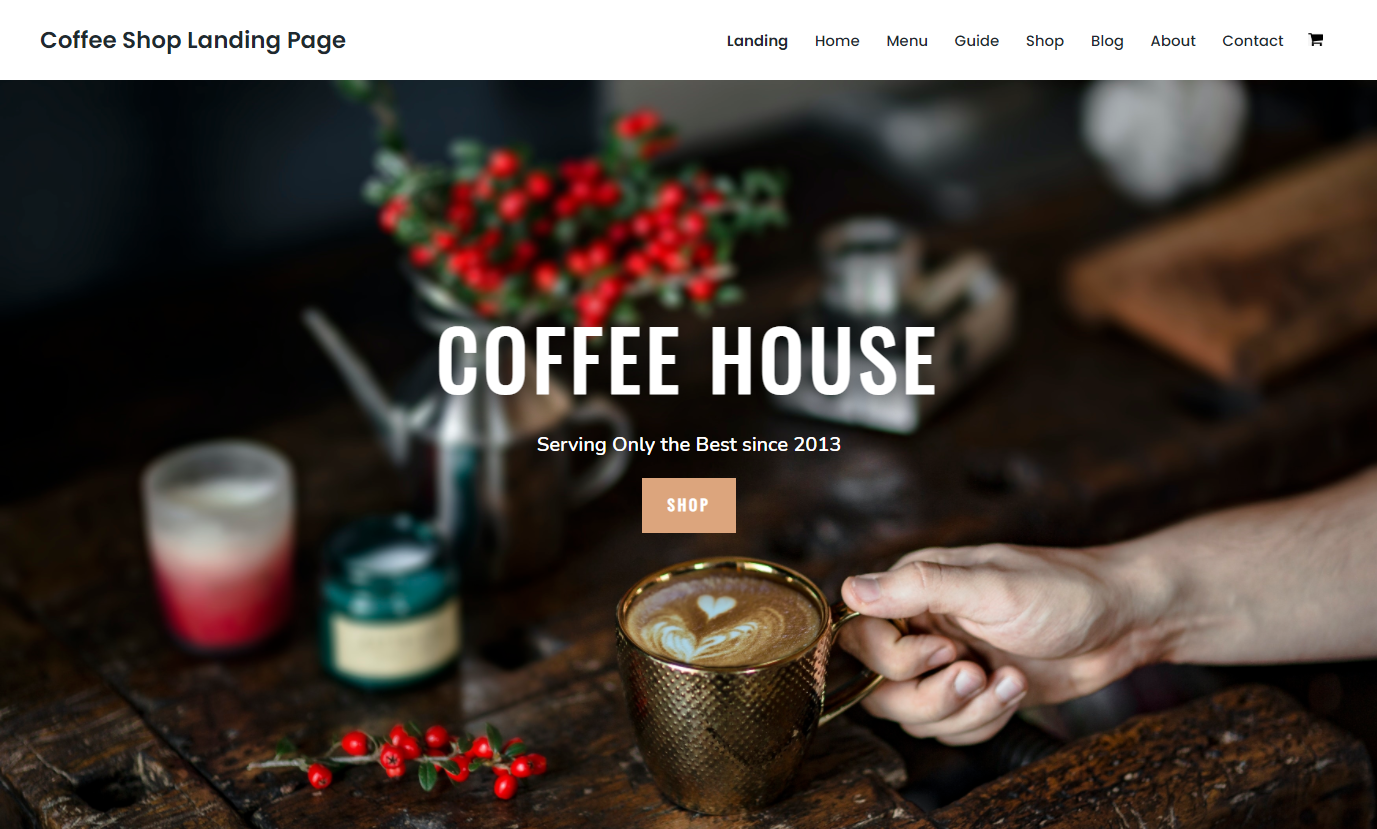
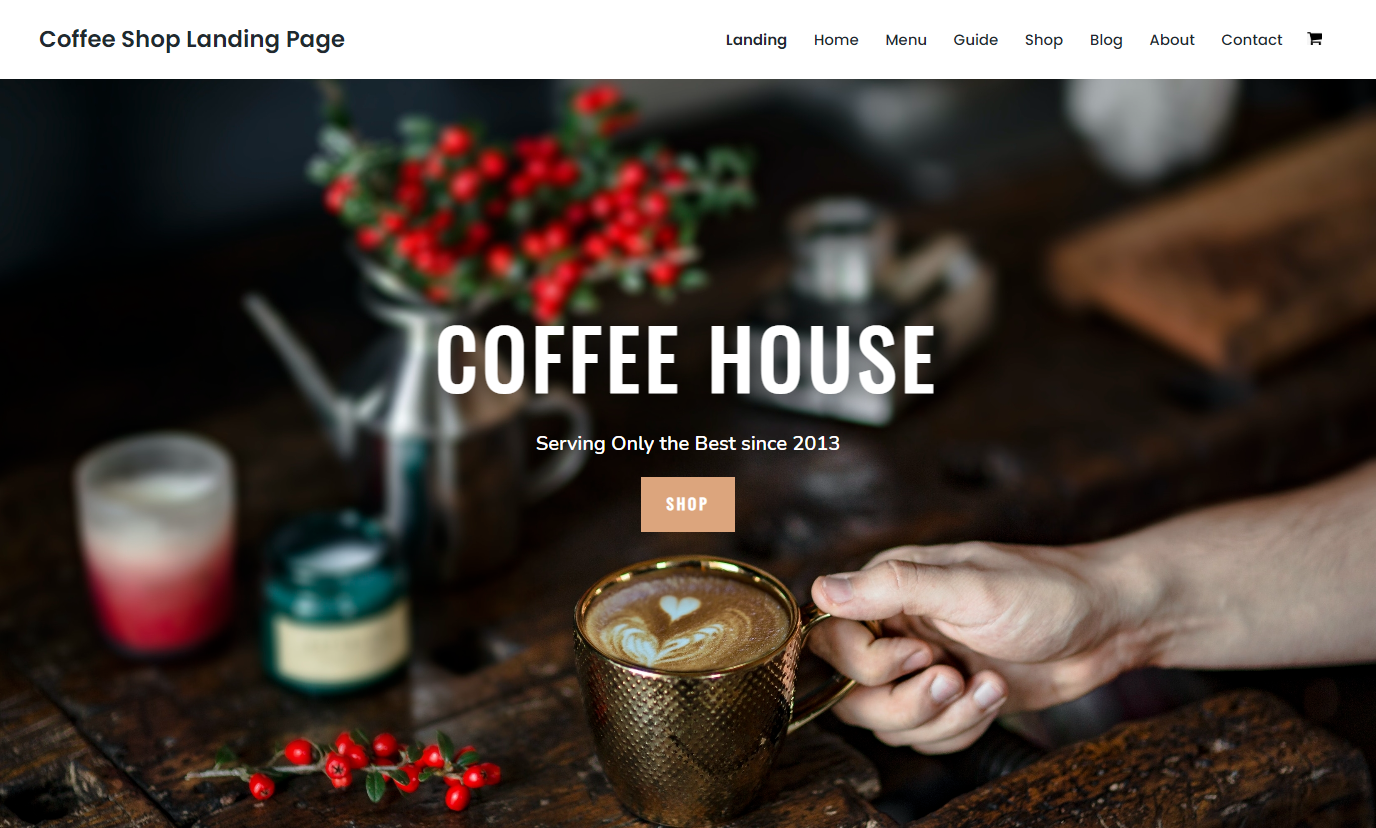
Change background image

diff --git a/css/main-action.css b/css/main-action.css
@@ -5,7 +5,7 @@
     text-decoration: none;
     color: #20292F;
     margin-left: 22px;
-    transition: all .4s ease-in-out;   
+    transition: all .3s ease-in-out;   
 }
 
 .main-action-page {
@@ -23,7 +23,7 @@
     text-decoration: none;
     color: #20292F;
     padding-bottom: 33px;
-    transition: all .4s ease-in-out;   
+    transition: all .3s ease-in-out;   
 }
 
 .main-action:hover, .main-action-lading:hover {

diff --git a/css/main-banner.css b/css/main-banner.css
@@ -1,9 +1,10 @@
 .main-banner {
-    background-image: url(/img/banner.jpg);
+    background-image: url(/img/Originals/banner2.jpg);
     height: 750px;
     background-repeat: no-repeat;
     background-size: 100%;
     box-sizing: border-box;
+    
 }
 
 .main-banner .wrapper {

diff --git a/css/main-header.css b/css/main-header.css
@@ -10,8 +10,6 @@
     margin-right: 0px;
 }
 
-
-
 .cart-logo {
     margin-left: 20px;
     width: 15px;
